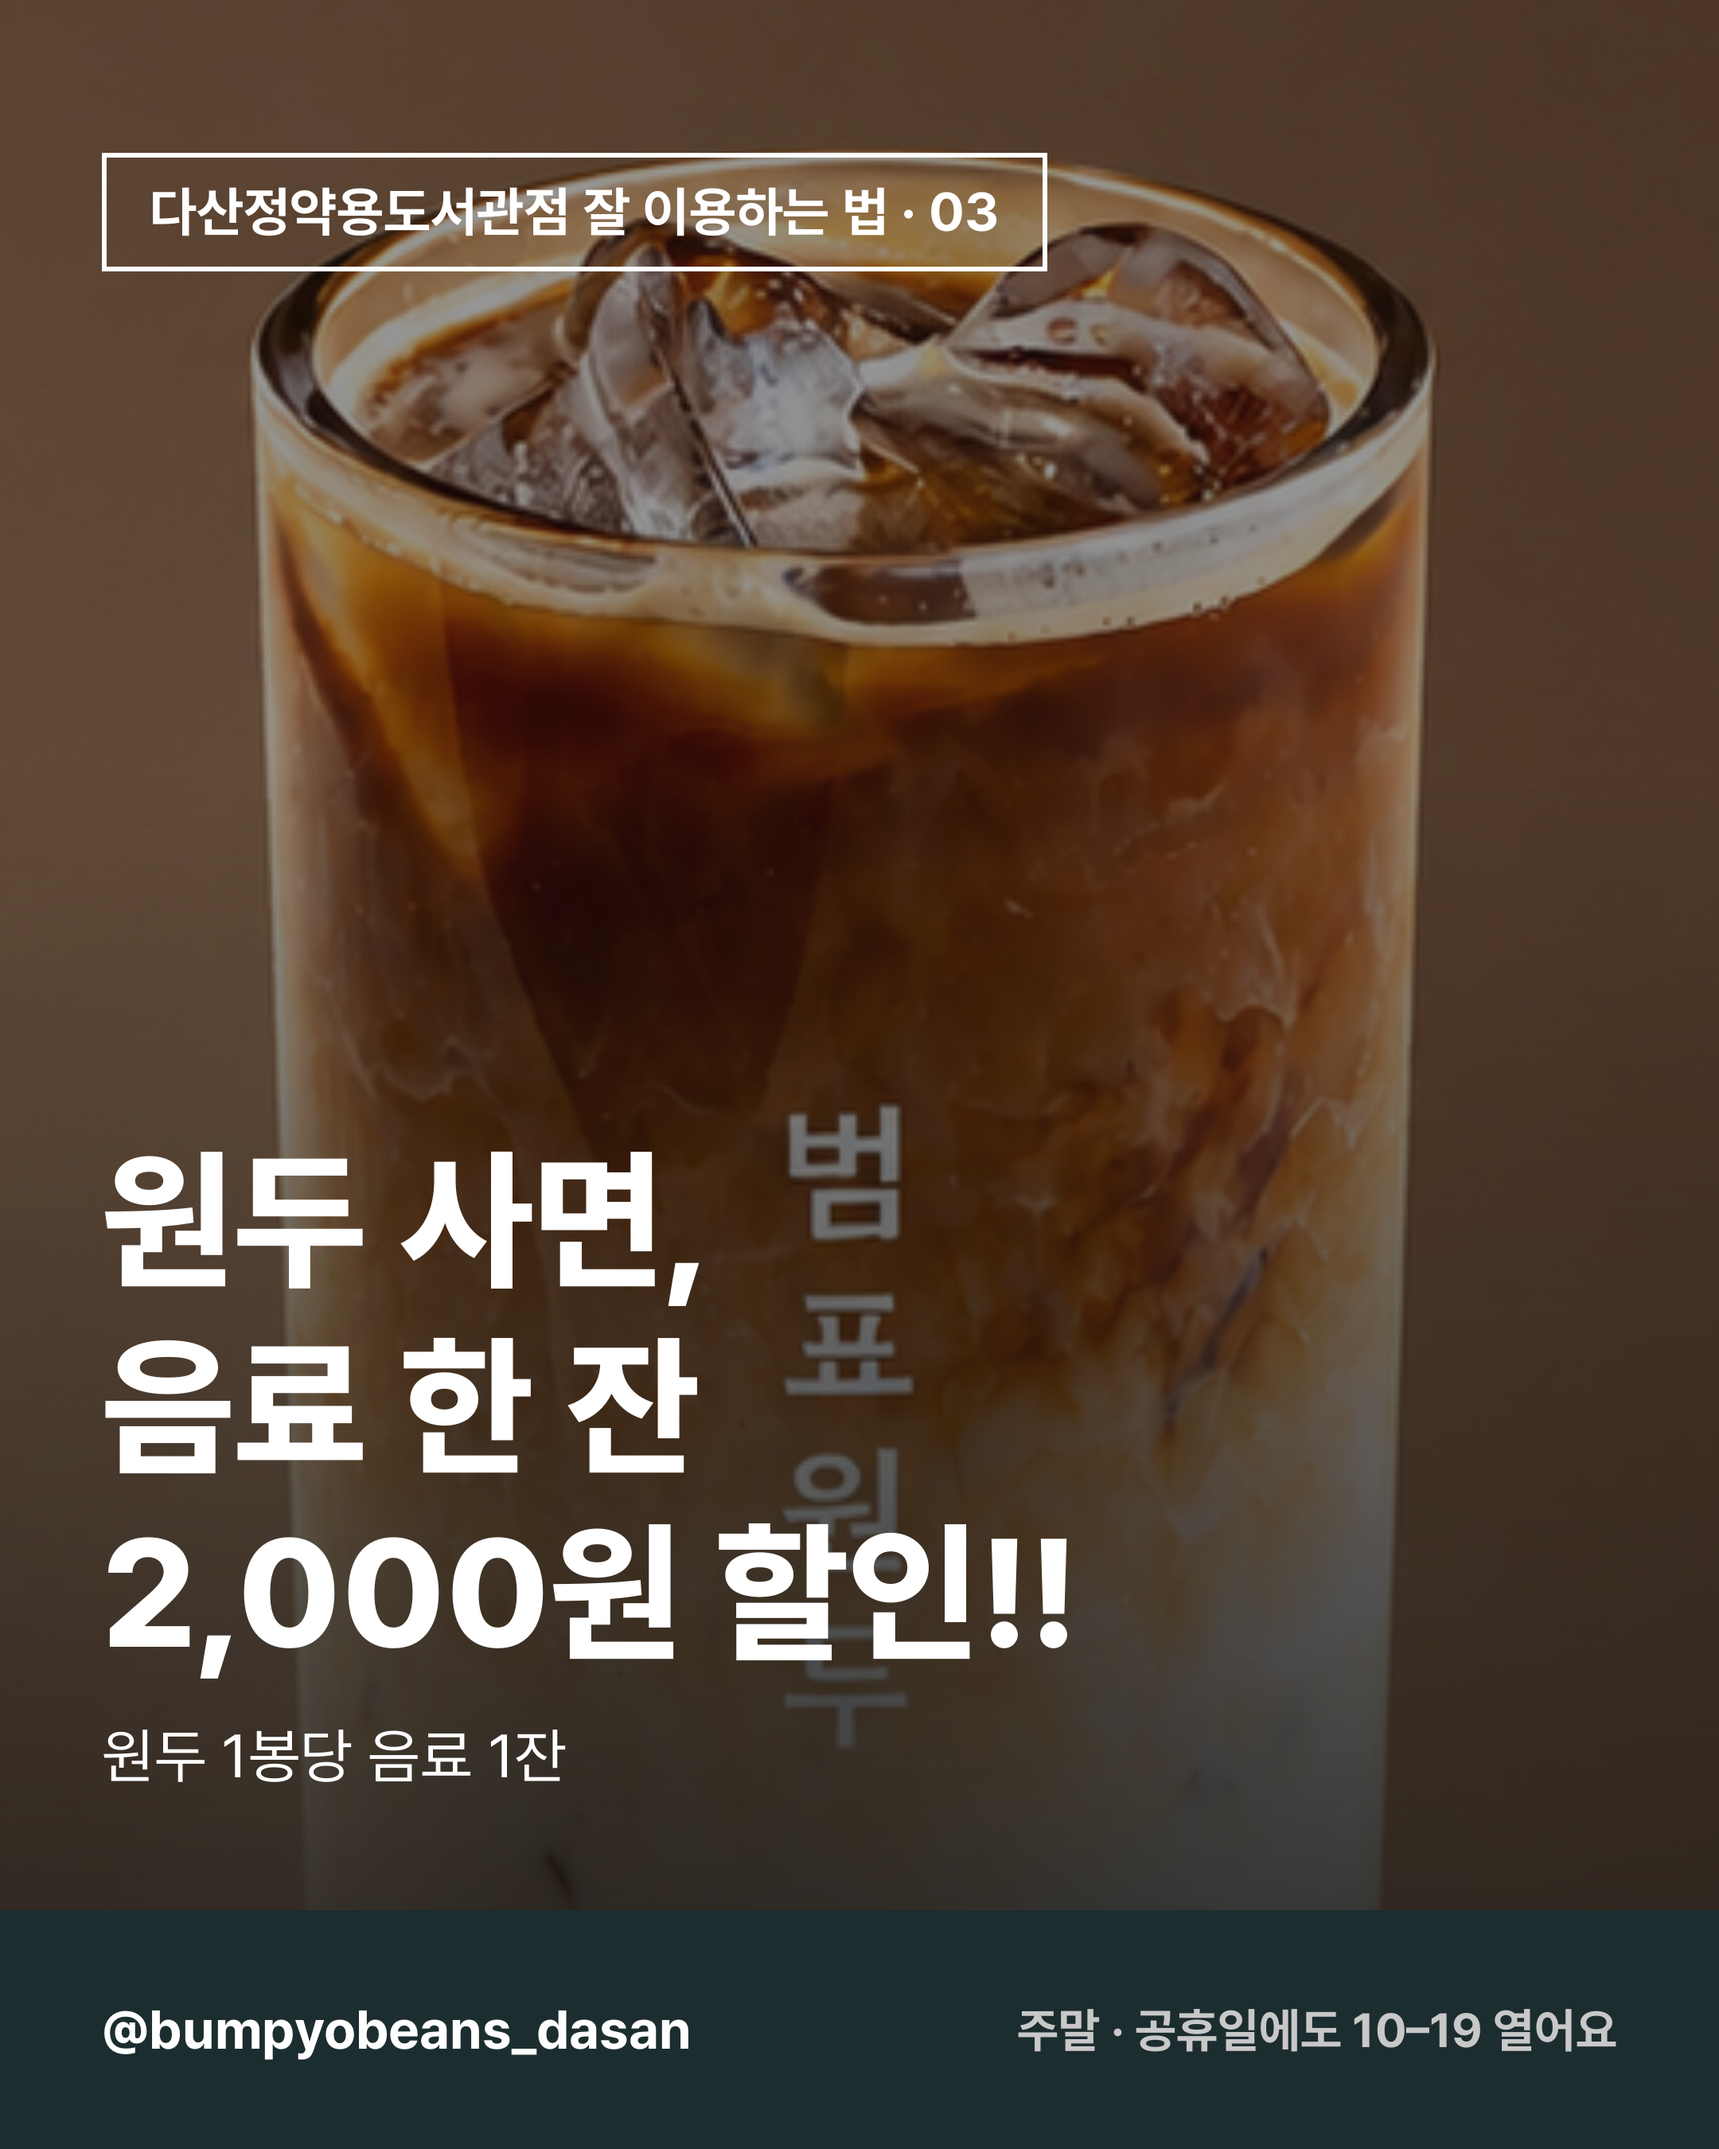
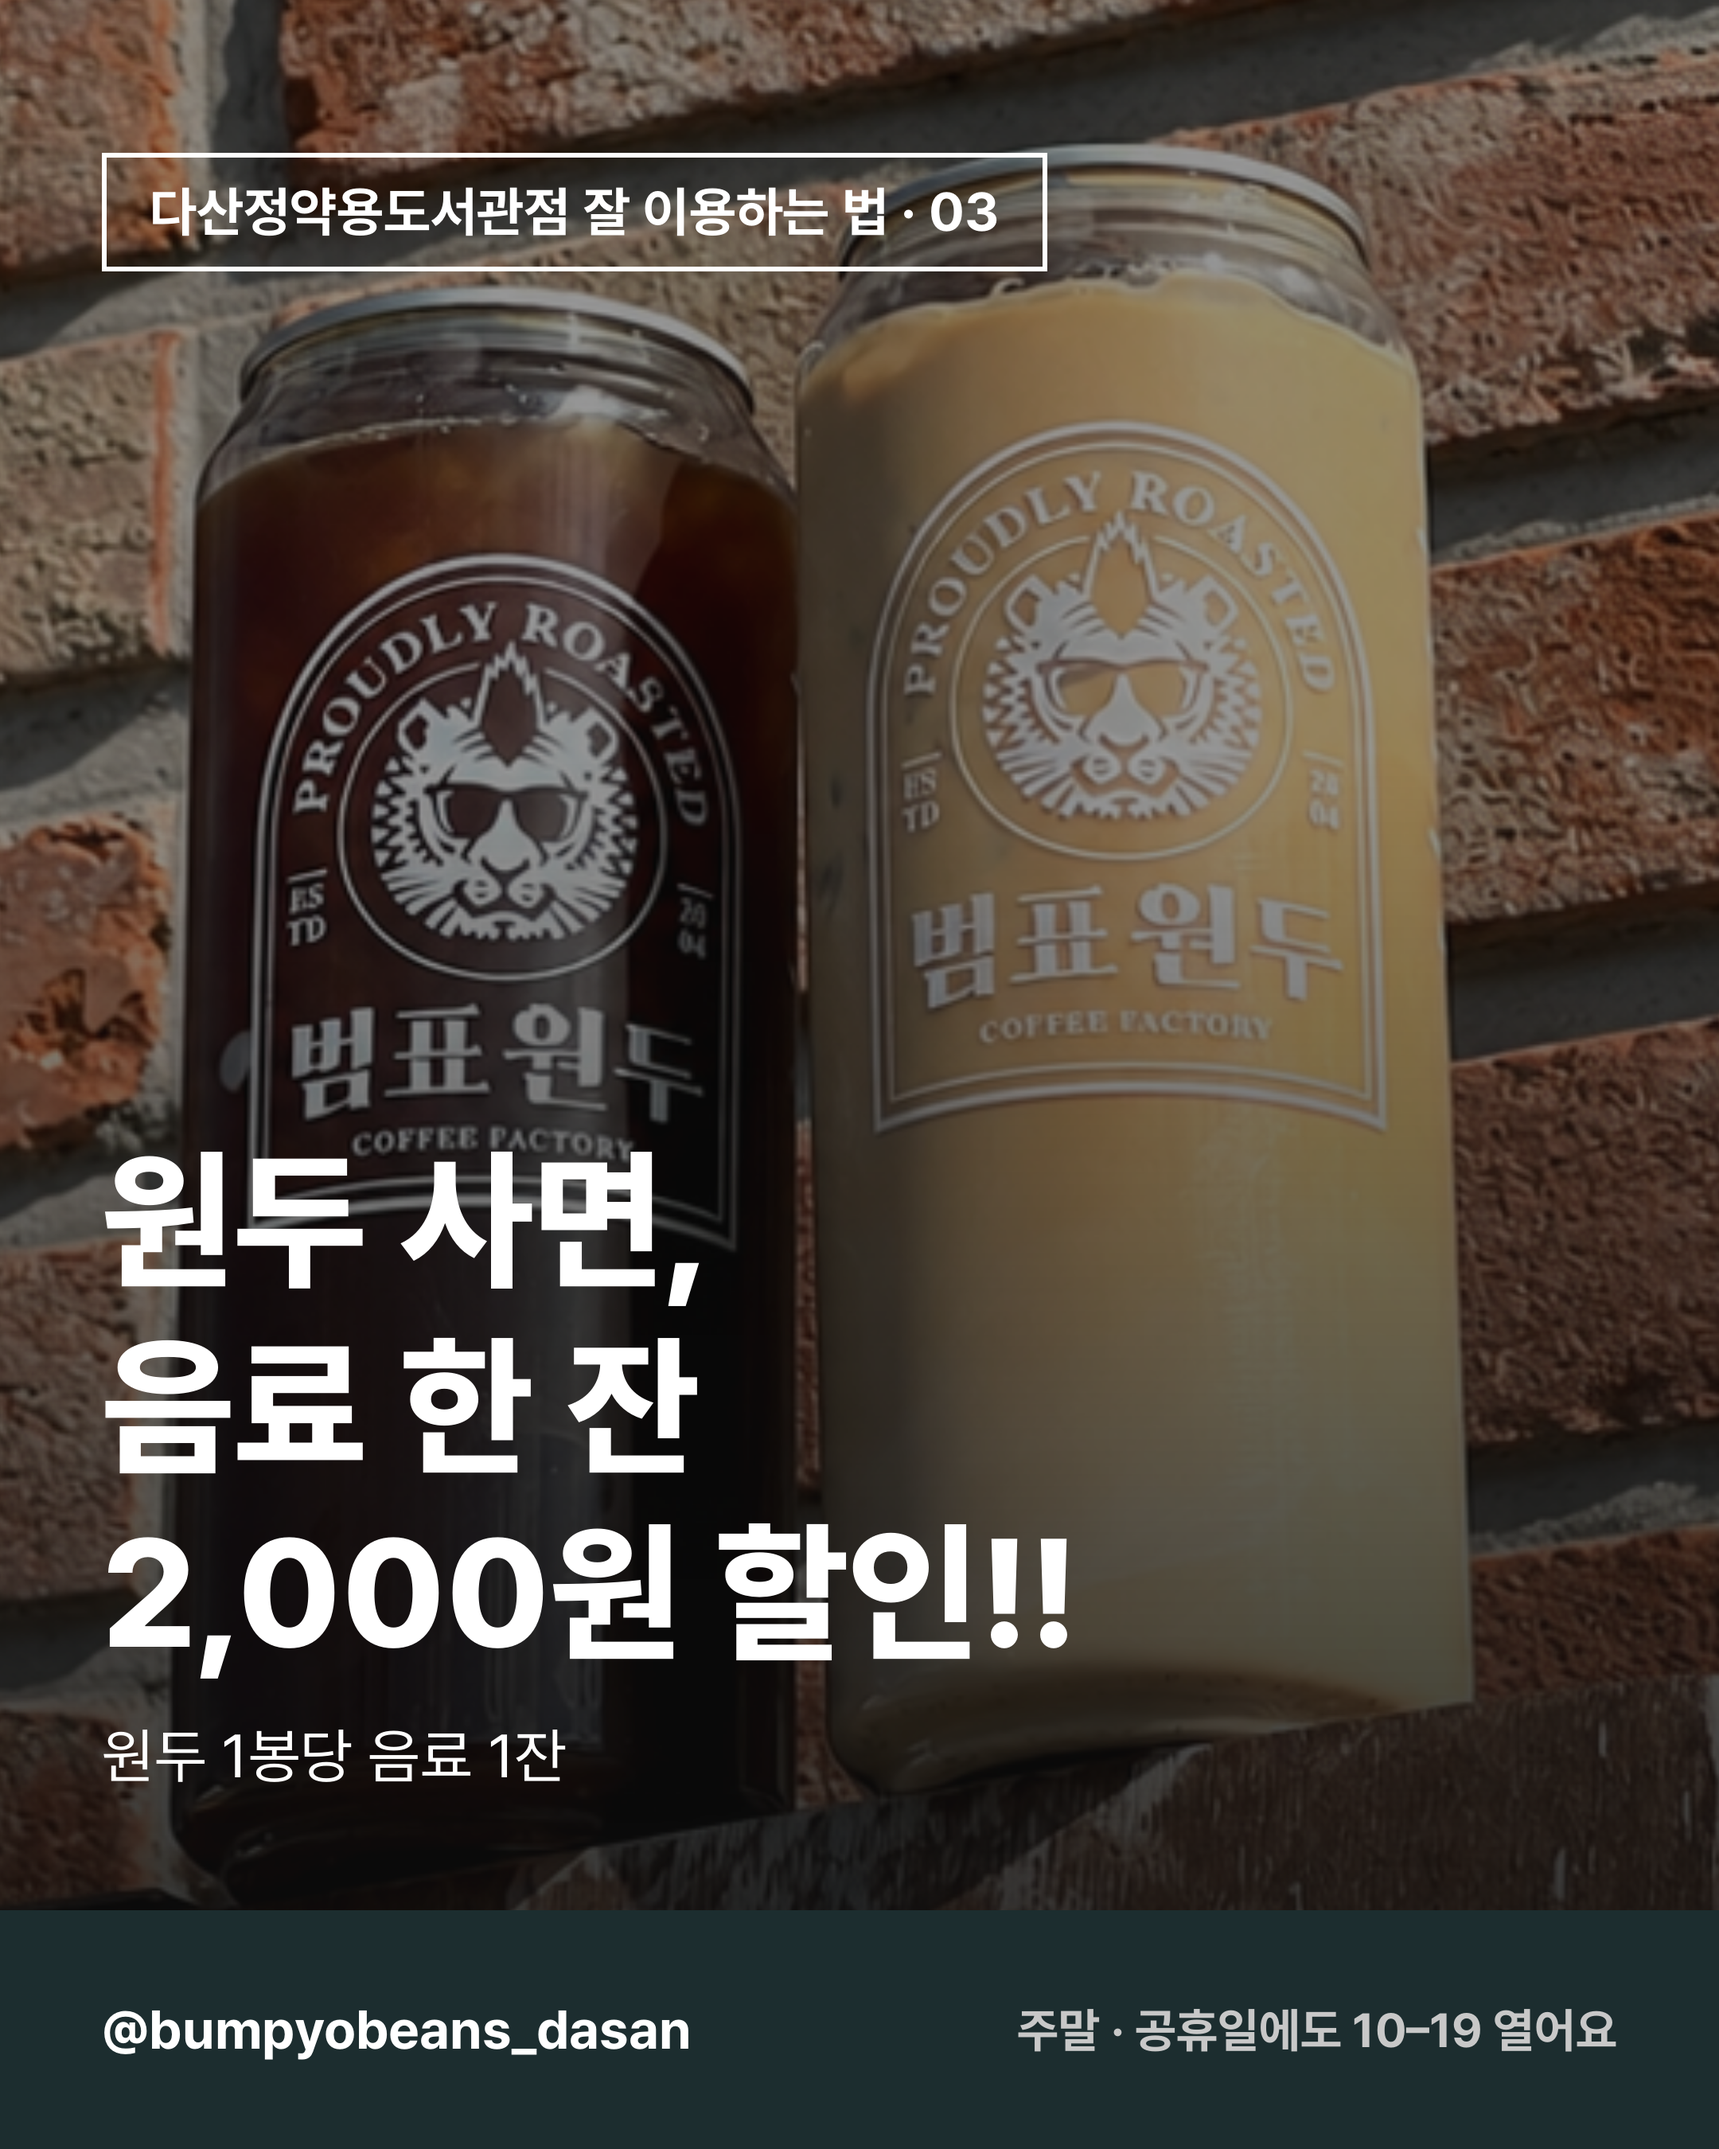
Dasan pin 3: latte can photo
Claude-Session: https://claude.ai/code/session_015nkFFMbZZ1pWpapoeisJCN

diff --git a/carousel/make_dasan_pins.py b/carousel/make_dasan_pins.py
@@ -51,7 +51,7 @@ def cup_on_brown(cutout, name):
 
 
 handdrip = cup_on_brown(Path(__file__).resolve().parent / "assets" / "drive_드립커피.png", "handdrip.png")
-latte = crop(UP / "013a501a-image.jpg", (0, 2300, 2268, 5135), "latte.png")
+cans = crop(UP / "e033888f-image.png", (366, 1113, 1956, 3100), "cans.png")
 
 pins = [
     k.cover(PH / "12.jpg", TAG.format(1), ["책 한 권,", "커피 한 잔,", "오늘은 여유!!"],
@@ -60,7 +60,7 @@ pins = [
     k.cover(handdrip, TAG.format(2), ["핸드드립", "맛집이라", "소문났어요!!"],
             "드립 커피 손님이 가장 많은 매장", HANDLE, "직접 볶으니까, 원두도 라떼도 맛있어요",
             focus=0.5, underline=()),
-    k.cover(latte, TAG.format(3), ["원두 사면,", "음료 한 잔", "2,000원 할인!!"],
+    k.cover(cans, TAG.format(3), ["원두 사면,", "음료 한 잔", "2,000원 할인!!"],
             "원두 1봉당 음료 1잔", HANDLE, "주말 · 공휴일에도 10–19 열어요",
             focus=0.5, underline=()),
 ]
